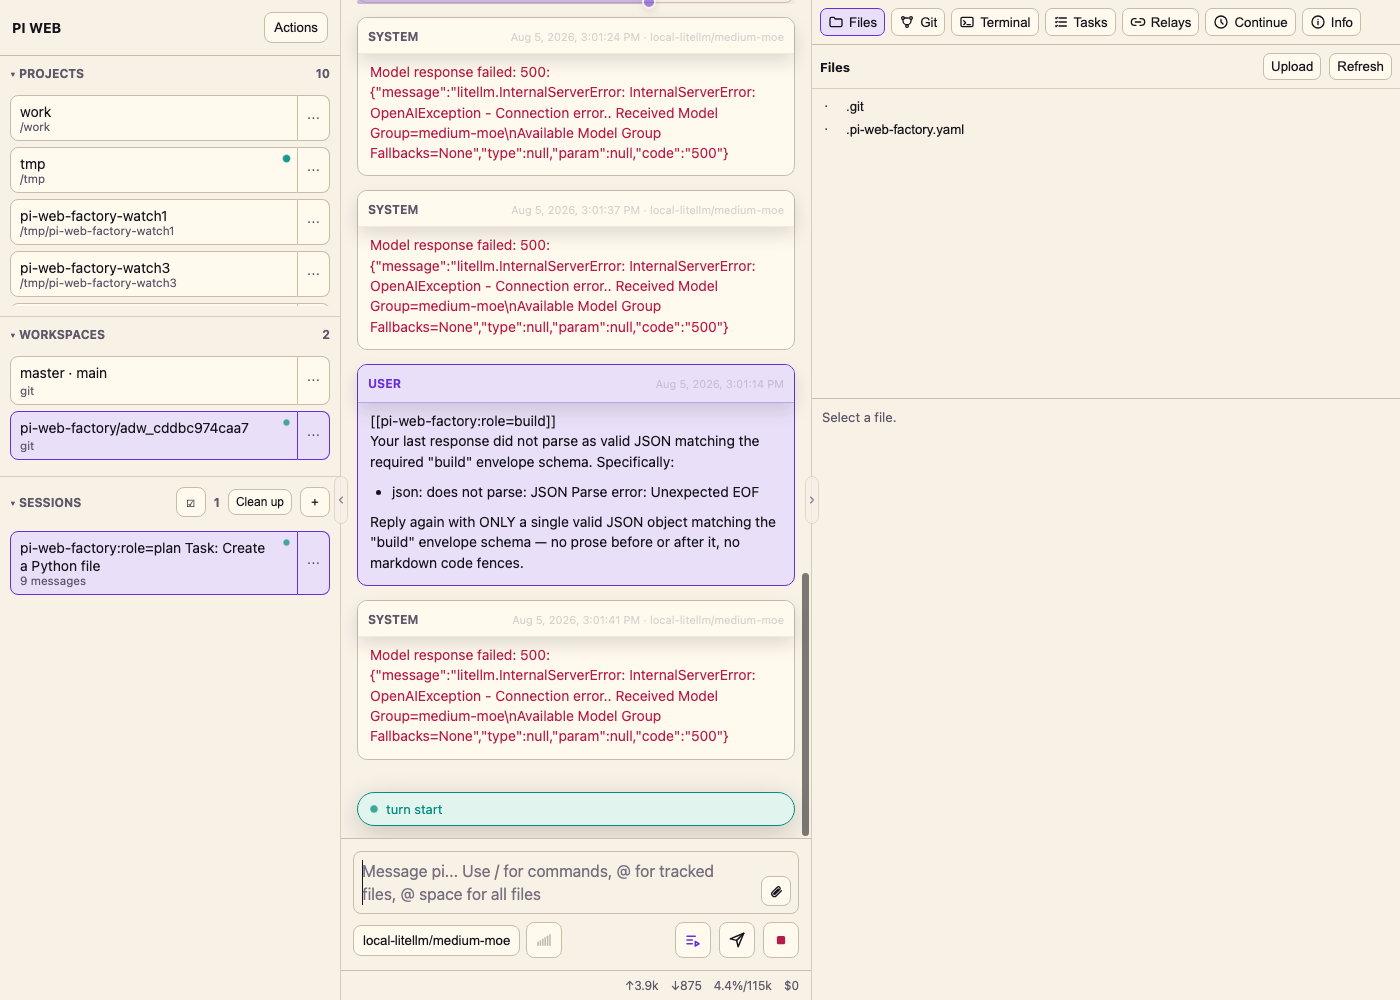
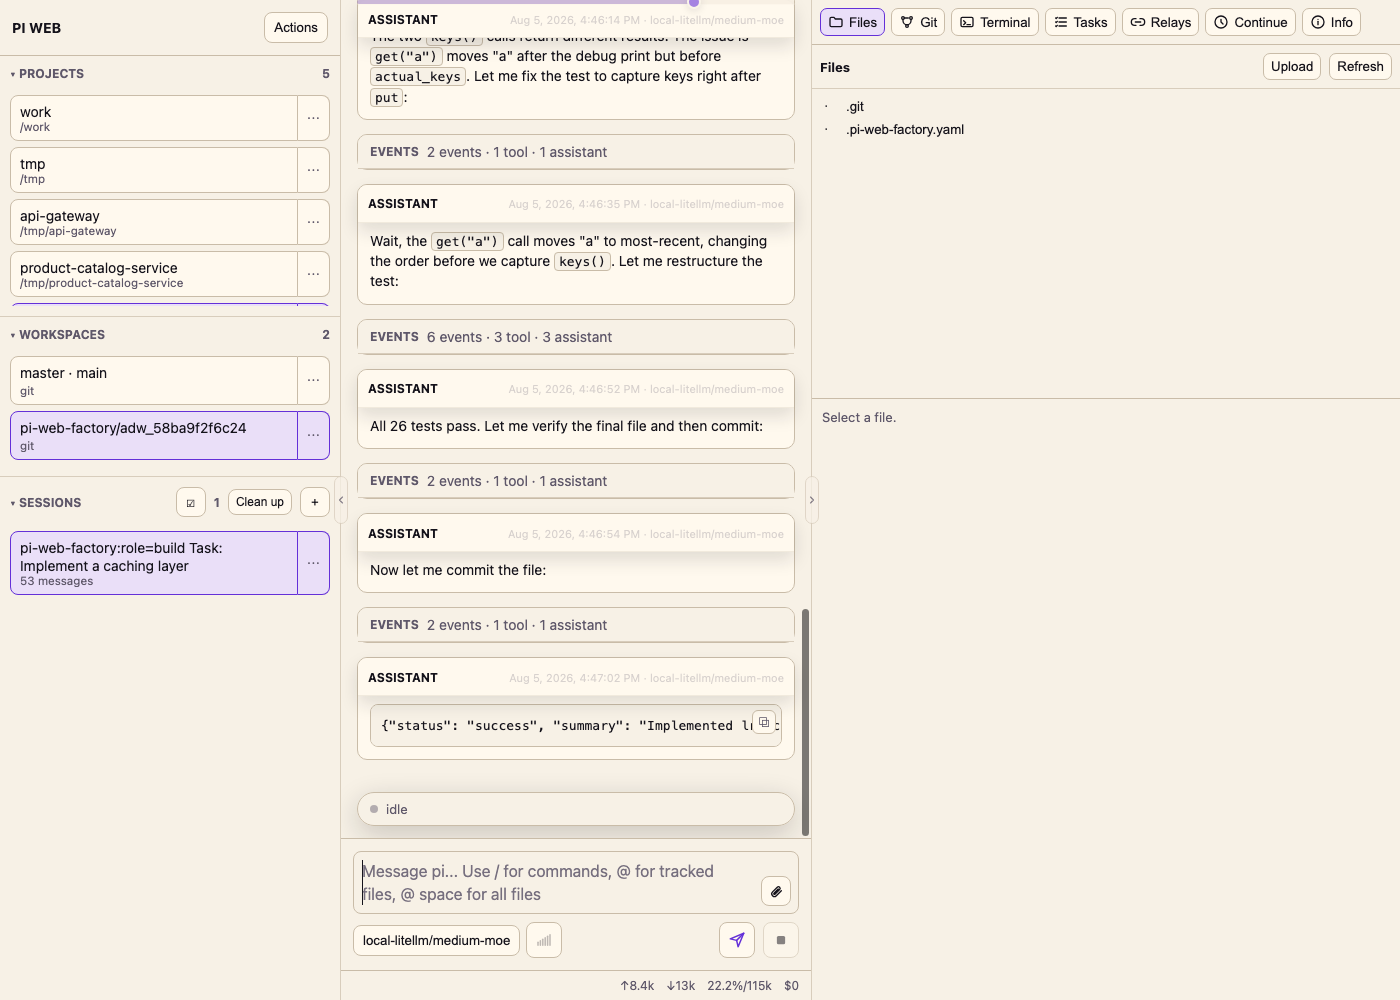
Regenerate pi-web-factory dashboard: match pi-web theme, fresh screenshots
Chris: "regenerate the dashboard in the same theme using the updated
screenshots" -- the dashboard's own CSS custom properties now point at the
exact same pi-web Light/Dark palette used to restyle the visualizer
(M-090), switched via prefers-color-scheme, same font stacks, code blocks
now styled like pi-web's own terminal panel (dark bg even in light mode,
matching --pi-terminal-bg/--pi-terminal-text). Removed a few leftover
hardcoded hex colors that wouldn't have adapted to dark mode.

Fresh screenshots from a real live test round (three realistic tasks --
rate limiting middleware, registration input validation, an LRU cache --
run against realistically-named scratch projects instead of toy examples)
captured after both the visualizer redesign and the new title-population
feature (M-091) landed: the redesigned grid view in both themes, the
detail view showing role-color badges, the project filter working
correctly post-fix, and a genuinely authentic pi-web session transcript
(real iterative test-debugging, not a canned response). Status grid
updated through M-091.

Claude-Session: https://claude.ai/code/session_017AwoSnS47gjsYwrgftKKvw

diff --git a/docs/pi-web-factory-walkthrough-2026-08-04.html b/docs/pi-web-factory-walkthrough-2026-08-04.html
@@ -5,28 +5,61 @@
 <meta name="viewport" content="width=device-width, initial-scale=1">
 <title>pi-web-factory — walkthrough</title>
 <style>
+  /* Theme: matches pi-web's own real, live-configured theme exactly (values
+     extracted directly from pi-web's own shipped JS bundle, same palette
+     used to restyle the visualizer, M-090) — Light by default, Dark via
+     prefers-color-scheme, same as pi-web's own "Auto" mode. Old generic
+     variable names (--bg, --panel, etc.) kept as the names every rule below
+     already references, just pointed at real pi-web values instead of a
+     one-off dark theme, so this file didn't need a line-by-line rewrite. */
   :root {
-    --bg: #0b0e14;
-    --panel: #131722;
-    --panel2: #1a1f2e;
-    --border: #262c3d;
-    --text: #e6e9f0;
-    --muted: #8b93a8;
-    --accent: #7c9fff;
-    --accent2: #62d6a0;
-    --warn: #f2b866;
-    --danger: #ef7a7a;
-    --code-bg: #0e1219;
-    --plan: #a78bfa;
-    --build: #62d6a0;
-    --review: #7c9fff;
-    --test: #f2b866;
-    --loop: #ef9a7a;
+    --bg: #f7f1e6;
+    --panel: #fff9ee;
+    --panel2: #f0e6d6;
+    --border: #c9bca8;
+    --text: #15131b;
+    --muted: #5f586a;
+    --accent: #6430d8;
+    --accent2: #008c82;
+    --warn: #b05f00;
+    --danger: #b51d49;
+    --code-bg: #15131b;
+    --code-text: #fff9ee;
+    --plan: #6430d8;
+    --build: #0f7a8c;
+    --review: #8a6a10;
+    --scout: #3454c4;
+    --document: #b23070;
+    --test: #3f7a4a;
+    --loop: #b23070;
+  }
+  @media (prefers-color-scheme: dark) {
+    :root {
+      --bg: #070912;
+      --panel: #101527;
+      --panel2: #151b31;
+      --border: #26304f;
+      --text: #f7f4ff;
+      --muted: #aaa4bd;
+      --accent: #7c3cff;
+      --accent2: #00f0d8;
+      --warn: #ffb000;
+      --danger: #ff4f7b;
+      --code-bg: #050710;
+      --code-text: #f7f4ff;
+      --plan: #b7a2ff;
+      --build: #5ee6f2;
+      --review: #f0d264;
+      --scout: #7aa2ff;
+      --document: #ff9ecf;
+      --test: #9fd9a8;
+      --loop: #ff9ecf;
+    }
   }
   * { box-sizing: border-box; }
   body {
     margin: 0;
-    font-family: -apple-system, BlinkMacSystemFont, "Segoe UI", Helvetica, Arial, sans-serif;
+    font-family: system-ui, sans-serif;
     background: var(--bg);
     color: var(--text);
     line-height: 1.6;
@@ -93,12 +126,12 @@
     border: 1px solid var(--border);
   }
   code {
-    font-family: "SF Mono", ui-monospace, Menlo, Consolas, monospace;
+    font-family: ui-monospace, SFMono-Regular, Menlo, Consolas, monospace;
     background: var(--code-bg);
     padding: 1px 6px;
     border-radius: 4px;
     font-size: 0.88em;
-    color: #d6dcea;
+    color: var(--code-text);
   }
   pre {
     background: var(--code-bg);
@@ -211,13 +244,13 @@
     color: var(--muted);
     border: 1px solid var(--border);
   }
-  .badge.ok { color: var(--accent2); border-color: #2a4a3a; }
-  .badge.err { color: var(--danger); border-color: #4a2a2a; }
-  .badge.wait { color: var(--warn); border-color: #4a3a2a; }
+  .badge.ok { color: var(--accent2); border-color: var(--accent2); }
+  .badge.err { color: var(--danger); border-color: var(--danger); }
+  .badge.wait { color: var(--warn); border-color: var(--warn); }
   a.btn {
     display: inline-block;
     background: var(--accent);
-    color: #0b0e14;
+    color: #fff9ee;
     font-weight: 600;
     font-size: 13px;
     padding: 9px 16px;
@@ -397,35 +430,48 @@
     not new TypeScript.</p>
 
     <h2 id="visualizer">The visualizer</h2>
-    <p>A real-time dashboard over every Workflow Run's trace data, live at:</p>
+    <p>A real-time dashboard over every Workflow Run's trace data, restyled to match pi-web's own
+    configured theme exactly (same colors, same fonts, same light/dark "Auto" behavior — pulled straight
+    from pi-web's own shipped theme tokens, not approximated), live at:</p>
     <a class="btn" href="http://192.168.1.226:8090" target="_blank">Open the visualizer → http://192.168.1.226:8090</a>
     <p>Deployed as its own compose service (reusing the same image pi-web-factory is baked into, M-068) —
     comes up and down with the rest of the stack, no separate process to remember to start.</p>
 
-    <h3>List view, with a live run</h3>
-    <img class="shot" src="pi-web-factory-screenshots-2026-08-05/visualizer-list-running.png" alt="Visualizer list view showing a run in RUNNING state with a pulsing live badge, alongside past successes and failures">
-    <div class="shot-caption">Every Workflow Run ever recorded, most recent first, with a project filter
-    dropdown above the list. The amber <b>RUNNING</b> badge pulses live while a run is genuinely in
-    progress.</div>
+    <h3>A live-updating grid, SSSF-style</h3>
+    <p>The main page is a responsive grid of cards — every Workflow Run visible at a glance, each with its
+    own condensed live timeline, no click-through needed just to see what's happening. Sort order is
+    deliberate: still-running runs first (oldest-started at the very top), then completed runs
+    newest-first below.</p>
+    <img class="shot" src="pi-web-factory-screenshots-2026-08-05/visualizer-grid-light.png" alt="Visualizer grid view, light theme, showing a running card with a live progress bar alongside real success and fail cards with descriptive titles">
+    <div class="shot-caption">Light theme (pi-web's own sand/purple palette). Real, descriptive titles now
+    (derived from the task prompt at Workflow Run start — "Add rate limiting middleware that returns
+    H…" — not the bare adwId), a purple pulsing-glow border on the running card, green-tinted successes and
+    red-tinted failures, both dimmed slightly to read as "done, not active."</div>
+    <img class="shot" src="pi-web-factory-screenshots-2026-08-05/visualizer-grid-dark.png" alt="The same visualizer grid view in dark theme">
+    <div class="shot-caption">The same page, dark theme — follows your system's light/dark preference
+    automatically via <code>prefers-color-scheme</code>, exactly like pi-web's own "Auto" mode.</div>
 
-    <h3>Detail view — a clean pass</h3>
-    <img class="shot" src="pi-web-factory-screenshots-2026-08-05/visualizer-detail-passing.png" alt="Visualizer detail view showing a successful plan-build-review run's Gantt timeline, all three steps green">
-    <div class="shot-caption">A real <code>bounded-build-review</code> run (an inventory-tracker module),
-    approved on the first pass. Each Step's bar is drawn proportional to its real duration; the gaps
-    between Steps are compressed to a small fixed width rather than drawn to scale — a Workflow Run that
-    sat blocked-on-human for an hour won't produce an hour-long blank stretch here.</div>
+    <h3>Detail view — click any card for the full timeline</h3>
+    <img class="shot" src="pi-web-factory-screenshots-2026-08-05/visualizer-detail-running.png" alt="Visualizer detail view of an in-progress run, showing a live purple pulsing Step bar and a teal build role badge">
+    <div class="shot-caption">Clicking a card still drops you into the full per-Step Gantt timeline (kept
+    from the original design) — each Step's bar is drawn proportional to its real duration, gaps between
+    Steps compressed to a small fixed width rather than drawn to scale, so a run that sat
+    blocked-on-human for an hour won't produce an hour-long blank stretch. Each Role now gets its own
+    persistent color (purple/plan, teal/build, gold/review, blue/scout, pink/document, green/run-tests) —
+    the same palette shows up in the grid's condensed timelines too.</div>
 
     <h3>Filtered by project</h3>
-    <img class="shot" src="pi-web-factory-screenshots-2026-08-05/visualizer-project-filter.png" alt="Visualizer list view filtered to one project, showing both a passing and a failing run grouped together">
-    <div class="shot-caption">Selecting a project groups every run triggered against it — including a mix
-    of passing and failing runs — regardless of which git worktree each individual run actually used
-    under the hood (see the first finding below; this took a real bug fix to get right).</div>
+    <img class="shot" src="pi-web-factory-screenshots-2026-08-05/visualizer-project-filter.png" alt="Visualizer grid filtered to one project, showing a passing run">
+    <div class="shot-caption">Selecting a project groups every run triggered against it — regardless of
+    which git worktree each individual run actually used under the hood (a real bug found and fixed live,
+    see the findings below).</div>
 
     <h3>Watching it live in pi-web's own UI</h3>
-    <img class="shot" src="pi-web-factory-screenshots-2026-08-05/pi-web-session-live.png" alt="An ordinary pi-web session transcript showing a build agent's tool calls and JSON envelope response mid-conversation">
-    <div class="shot-caption">Every Workflow Run's Steps are ordinary pi-web sessions underneath — you can
-    always drop into pi-web's own browser UI (the deep-link every result carries) and watch the actual
-    conversation, tool calls and all, exactly as if you'd started it by hand.</div>
+    <img class="shot" src="pi-web-factory-screenshots-2026-08-05/pi-web-session-live.png" alt="An ordinary pi-web session transcript showing real iterative debugging: a failing test diagnosed, fixed, all tests passing, then committed">
+    <div class="shot-caption">Every Workflow Run's Steps are ordinary pi-web sessions underneath — real
+    iterative work, not a single canned response. This one diagnosed a failing test, fixed it, reran until
+    all 26 passed, then committed — you can always drop into pi-web's own browser UI (the deep-link every
+    result carries) and watch it happen exactly as if you'd started it by hand.</div>
 
     <h2 id="findings">What we learned running it for real</h2>
     <p>A live testing pass today (multiple real Workflow Runs, real failures, real infra hiccups) surfaced
@@ -648,9 +694,11 @@
       <div class="id">M-086.1</div><div class="title">Per-Workflow /skill:&lt;name&gt; commands, SSSF-style shorthand</div><div class="status-done">done</div>
       <div class="id">M-087</div><div class="title">Real failure detail in UNPARSEABLE/PERMISSIONS-VIOLATION messages</div><div class="status-done">done</div>
       <div class="id">M-088</div><div class="title">Visualizer project filter</div><div class="status-done">done</div>
+      <div class="id">M-090</div><div class="title">Visualizer redesign — match pi-web theme, SSSF-style live card grid</div><div class="status-done">done</div>
+      <div class="id">M-091</div><div class="title">Real Workflow Run titles, derived from the task prompt</div><div class="status-done">done</div>
       <div class="id">M-080</div><div class="title">A rejected review can still report top-level SUCCESS</div><div class="status-refine">needs your call</div>
       <div class="id">M-082</div><div class="title">Permissions enforcement flags incidental verification artifacts</div><div class="status-refine">needs your call</div>
-      <div class="id">M-089</div><div class="title">Ornith Q4_K_M — smaller quant for memory headroom</div><div class="status-next">download in progress</div>
+      <div class="id">M-089</div><div class="title">Ornith Q4_K_M — smaller quant for memory headroom</div><div class="status-next">downloaded, not yet smoke-tested</div>
     </div>
     <p>There's also a durable ticket layer sketched but not built: a trimmed <code>.fleet</code>-style
     <code>backlog/</code> → <code>now/</code> → <code>done/</code> queue that would let you author work
